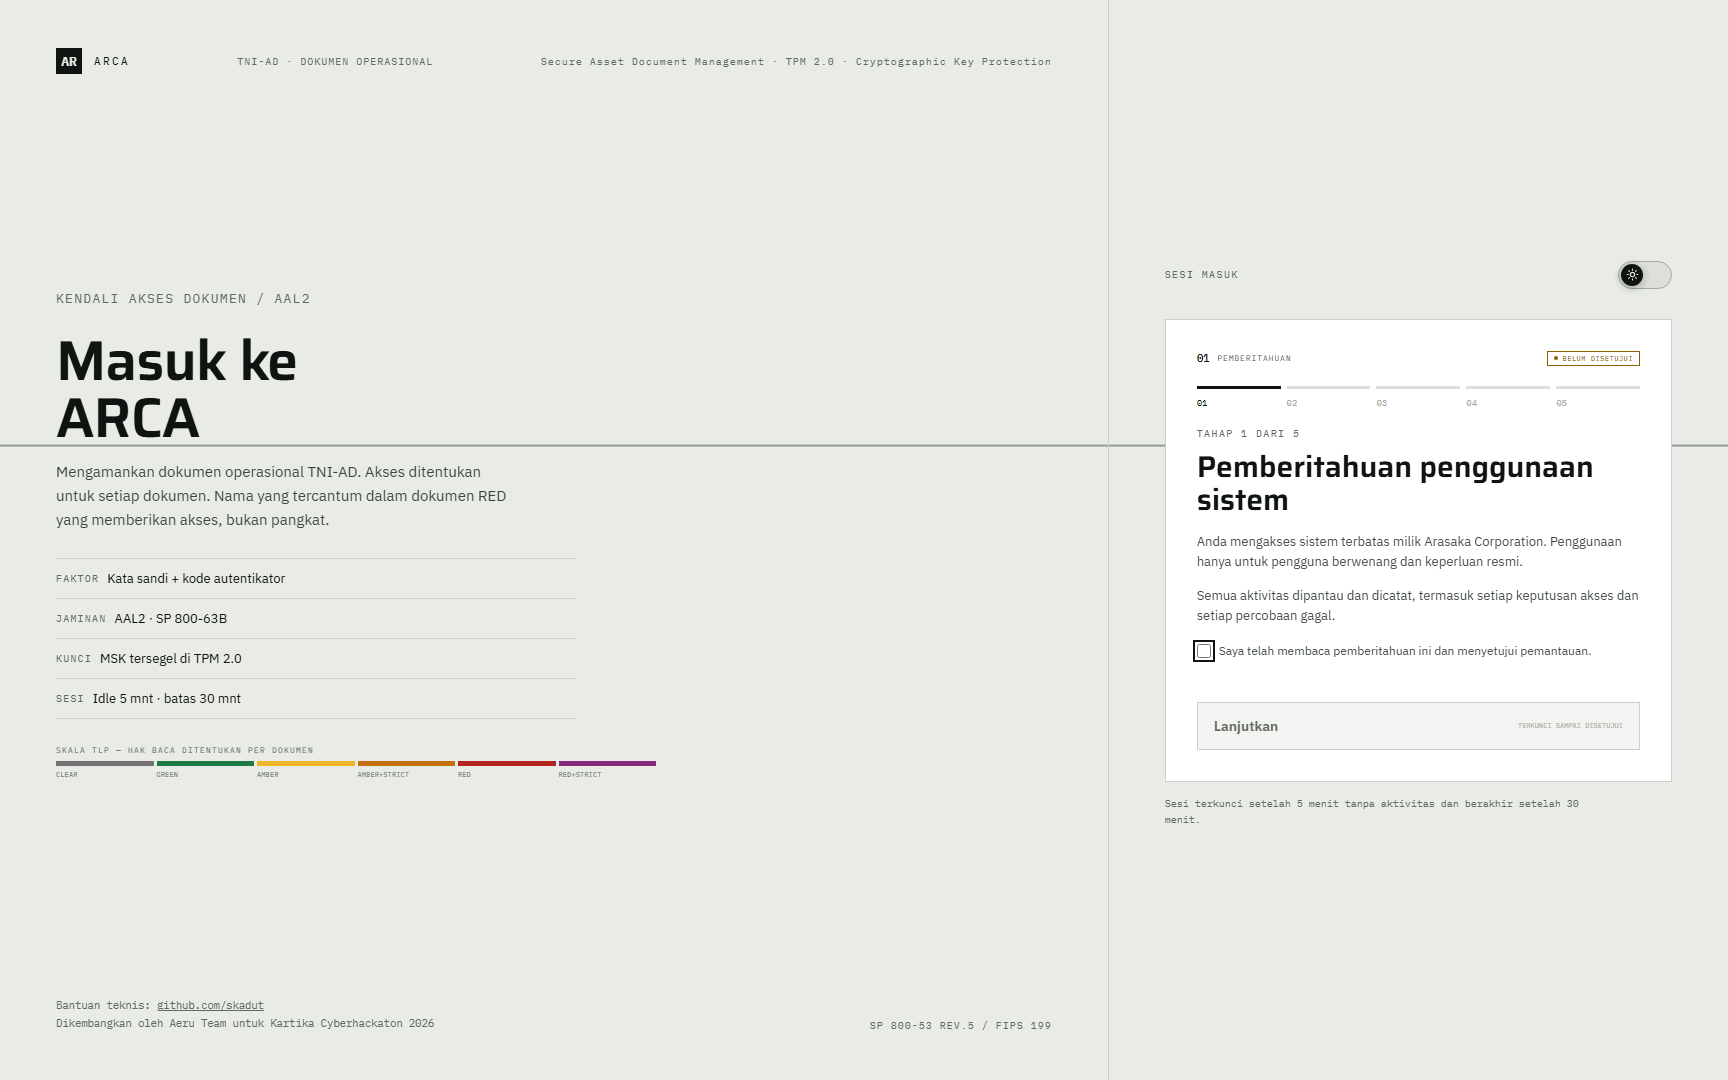
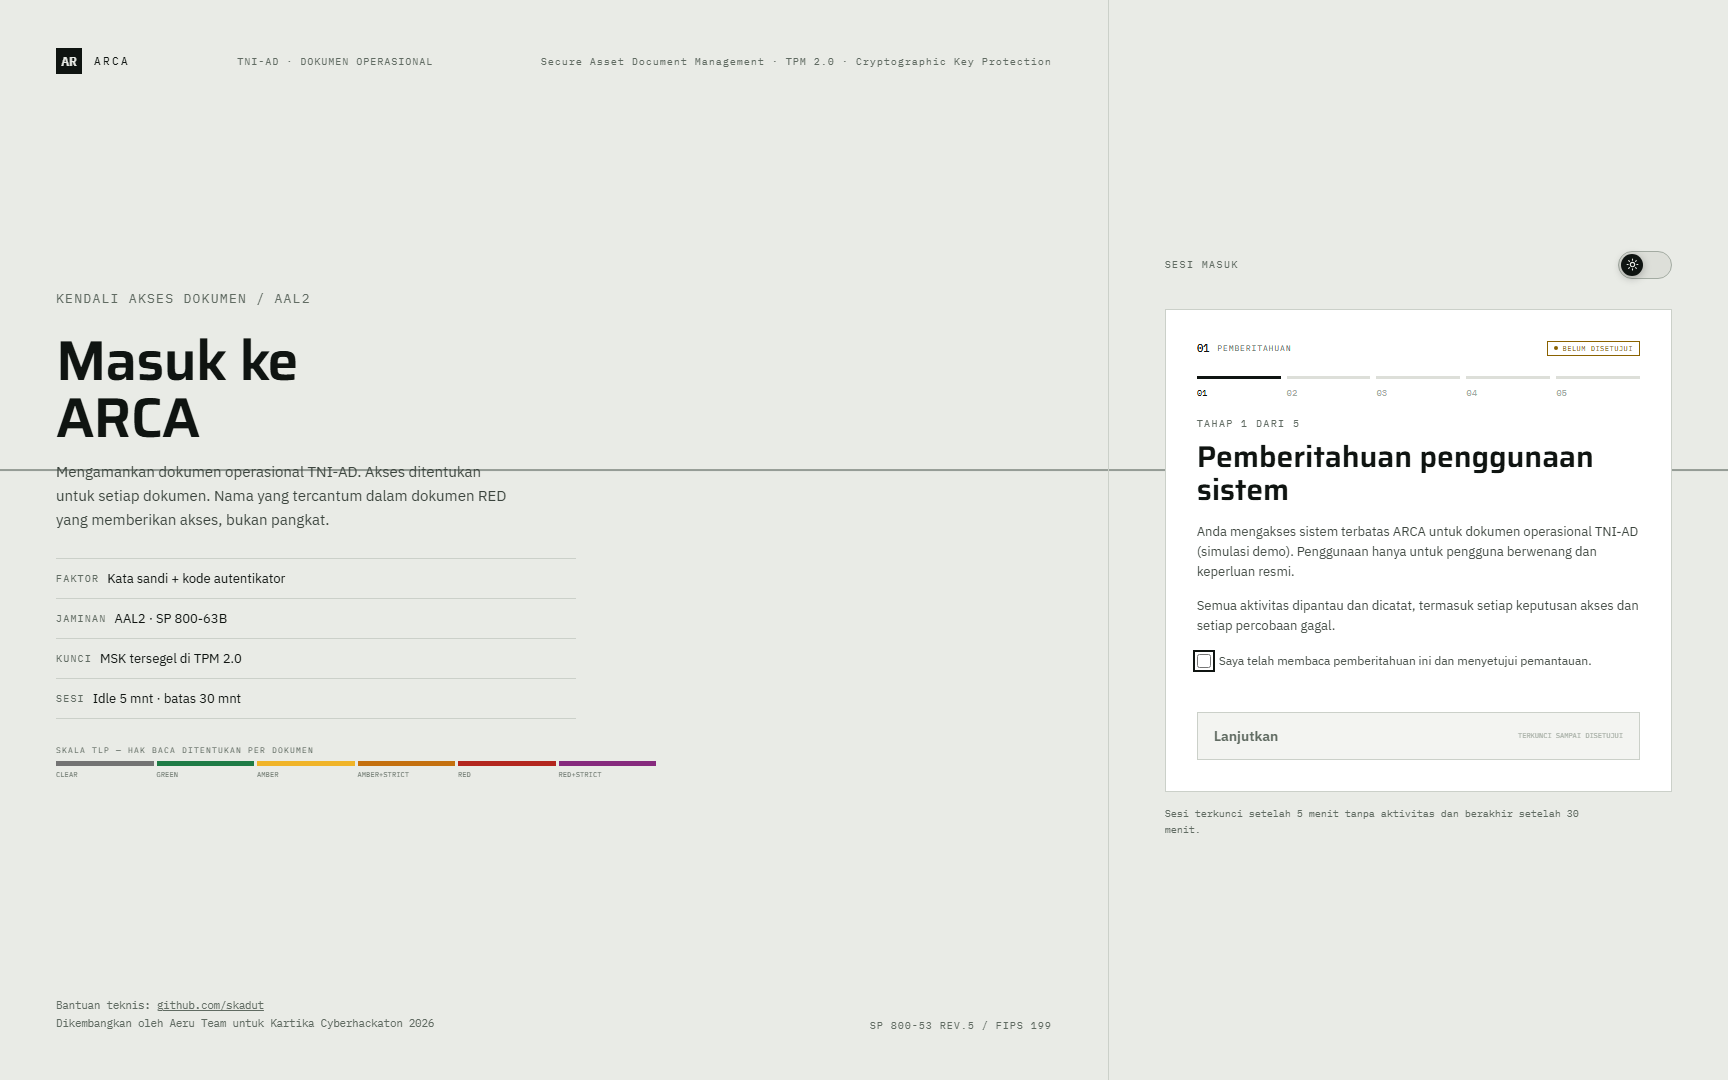
login: replace leftover Arasaka notice with ARCA

Changed region(s): [[0.6875, 0.3972, 0.9375, 0.6417], [0.6562, 0.6417, 0.9688, 0.7639], [0.6562, 0.2139, 0.9688, 0.3667]]

diff --git a/frontend/src/features/auth/session-login.tsx b/frontend/src/features/auth/session-login.tsx
@@ -588,9 +588,9 @@ export function SessionLogin({ onSuccess }: { onSuccess: () => void }) {
                     </header>
                     <div className='lg-notice'>
                       <p>
-                        Anda mengakses sistem terbatas milik Arasaka
-                        Corporation. Penggunaan hanya untuk pengguna berwenang
-                        dan keperluan resmi.
+                        Anda mengakses sistem terbatas ARCA untuk dokumen
+                        operasional TNI-AD (simulasi demo). Penggunaan hanya
+                        untuk pengguna berwenang dan keperluan resmi.
                       </p>
                       <p>
                         Semua aktivitas dipantau dan dicatat, termasuk setiap
